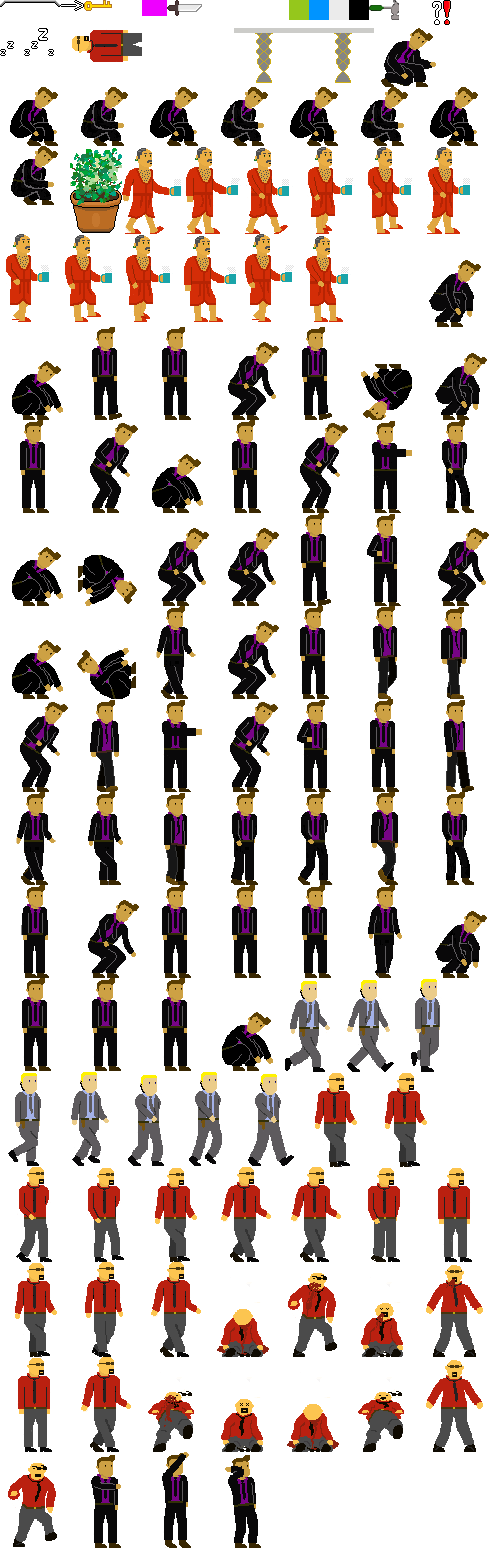
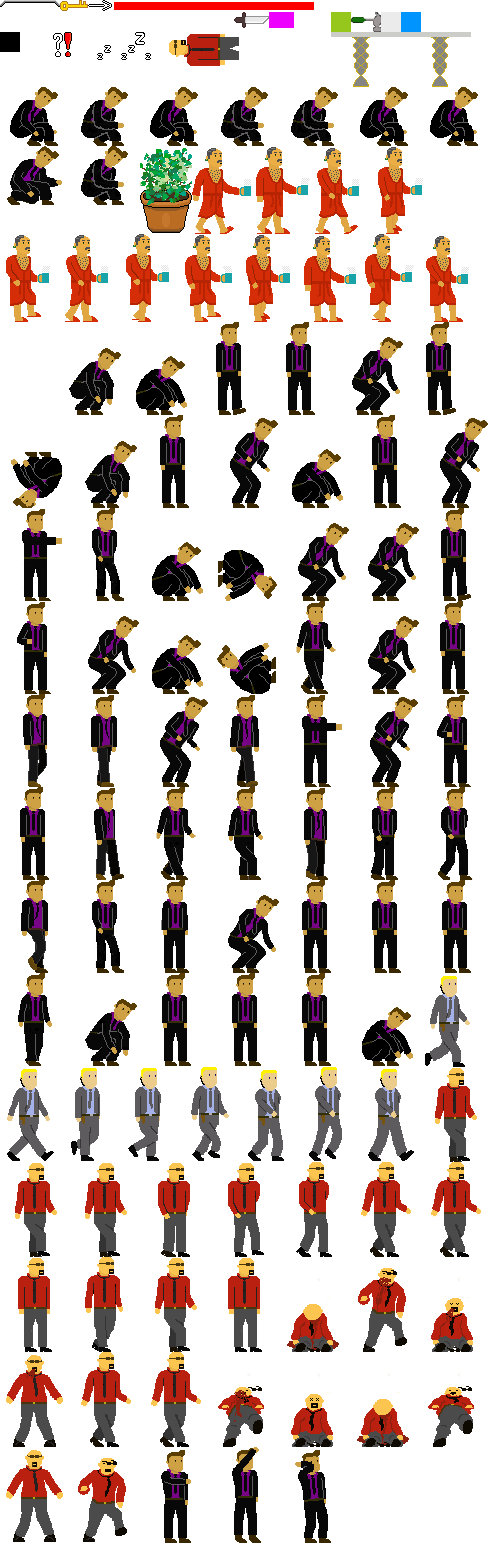
Added player health bar.  Fixed bug with enemy attacking.

diff --git a/Mafia House - Electric Lemon Studios/Classes/Level.cpp b/Mafia House - Electric Lemon Studios/Classes/Level.cpp
@@ -16,6 +16,19 @@ void Level::setup(){
 	mainLayer = GameLayer::create();
 	addChild(mainLayer);
 
+	//node all hud elements are attached
+	hudLayer = Node::create();
+	addChild(hudLayer);
+
+	healthBar = Sprite::createWithSpriteFrameName("icons/healthBar.png");
+	healthFill = Sprite::createWithSpriteFrameName("icons/healthFill.png");
+	healthBar->setGlobalZOrder(20);
+	healthFill->setGlobalZOrder(20);
+	healthBar->setAnchorPoint(Vec2(0, 1));
+	healthFill->setAnchorPoint(Vec2(0, 1));
+	hudLayer->addChild(healthBar);
+	hudLayer->addChild(healthFill);
+
 	//Invisible Node for the camera to follow
 	camPos = Node::create();
 	mainLayer->addChild(camPos);
@@ -151,7 +164,7 @@ void Level::update(float deltaTime){
 	player->update(mainLayer, gameTime);
 
 	//check if player is going to interact with door/stairway
-	if (INPUTS->getKeyPress(KeyCode::KEY_Q)) {
+	if (INPUTS->getKeyPress(KeyCode::KEY_CTRL)) {
 		if (player->stairToUse != NULL) {
 			player->handleInput(mainLayer, gameTime, USE_STAIR);
 		}
@@ -178,12 +191,12 @@ void Level::update(float deltaTime){
 	}
 	//check if player is throwing item
 	if (INPUTS->getKeyPress(KeyCode::KEY_SHIFT)) {
-		if (player->heldItem != NULL || player->bodyToPickUp != NULL) {
+		if (player->heldItem != NULL || player->heldBody != NULL) {
 			player->handleInput(mainLayer, gameTime, THROW_ITEM);
 		}
 	}
 	if (INPUTS->getKeyRelease(KeyCode::KEY_SHIFT)) {
-		if (player->heldItem != NULL || player->bodyToPickUp != NULL) {
+		if (player->heldItem != NULL || player->heldBody != NULL) {
 			player->handleInput(mainLayer, gameTime, THROW_RELEASE);
 		}
 	}
@@ -279,6 +292,10 @@ void Level::update(float deltaTime){
 	//having camera follow player
 	followBox(camPos, player, camBoundingBox, camOffset);
 	camera->setPosition(camPos->getPosition());
+	hudLayer->setPosition(camera->getPosition()+ Vec2(-400, 250));//make it so hud stays in same location on screen
+	//hudLayer->setPositionZ(camera->getPositionZ() + 459.42983);
+	float percentage = player->getHP() / player->getMaxHP();
+	healthFill->setScaleX(percentage);
 
 	//update the keyboard each frame
 	INPUTS->clearForNextFrame();

diff --git a/Mafia House - Electric Lemon Studios/Classes/Enemy.cpp b/Mafia House - Electric Lemon Studios/Classes/Enemy.cpp
@@ -1051,10 +1051,12 @@ void Enemy::gotHit(Item* item, float time) {
 				hp = 0;
 			}
 			else {
-				changeSuspicion(maxSuspicion);
-				wasInHitStun = true;
-				hitStunStart = time;
-				hitStunTime = item->hitstun;
+				if (knockedOut == false) {
+					changeSuspicion(maxSuspicion);
+					wasInHitStun = true;
+					hitStunStart = time;
+					hitStunTime = item->hitstun;
+				}
 			}
 		}
 		else if(item->getEffect() == Item::KNOCKOUT) {
@@ -1658,7 +1660,7 @@ Enemy::State* Enemy::AttackState::update(Enemy* enemy, GameLayer* mainLayer, flo
 	}
 	return nullptr;
 }
-void Enemy::AttackState::exit(Enemy* enemy, GameLayer* mainLayer) {
+void Enemy::AttackState::exit(Enemy* enemy, GameLayer* mainLayer, float time) {
 	enemy->heldItem->didHitWall = false;
 	//if (enemy->heldItem->hp <= 0) {enemy->breakItem(mainLayer);}//enemy items don't break
 	enemy->heldItem->initHeldItem();

diff --git a/Mafia House - Electric Lemon Studios/Classes/Enemy.h b/Mafia House - Electric Lemon Studios/Classes/Enemy.h
@@ -127,7 +127,7 @@ protected:
 		AttackState() { type = "attack"; }
 		void enter(Enemy* enemy, GameLayer* mainLayer, float time);
 		State* update(Enemy* enemy, GameLayer* mainLayer, float time);
-		void exit(Enemy* enemy, GameLayer* mainLayer);
+		void exit(Enemy* enemy, GameLayer* mainLayer, float time);
 	};
 	class UseDoorState : public State {
 	public:

diff --git a/Mafia House - Electric Lemon Studios/Classes/Level.h b/Mafia House - Electric Lemon Studios/Classes/Level.h
@@ -55,7 +55,9 @@ protected:
 
 	Director* director = Director::getInstance();
 
-	GameLayer* hudLayer;//the layer for the HUD/UI, doesn't move with camera
+	Node* hudLayer;//the layer for the HUD/UI, doesn't move with camera
+	Sprite* healthBar;
+	Sprite* healthFill;
 
 	GameLayer* mainLayer;//a node which everything in the scene is attached to
 

diff --git a/Mafia House - Electric Lemon Studios/Classes/Player.h b/Mafia House - Electric Lemon Studios/Classes/Player.h
@@ -48,6 +48,8 @@ public:
 	void stayWithin(HideObject* object);
 	//getters:
 	bool isHidden() { return hidden; }
+	float getHP() { return hp; }
+	float getMaxHP() { return maxHP; }
 
 	//pointers for interacting with objects:
 	HideObject* objectToHideBehind = NULL;//the tag of the object the player can hide behind
